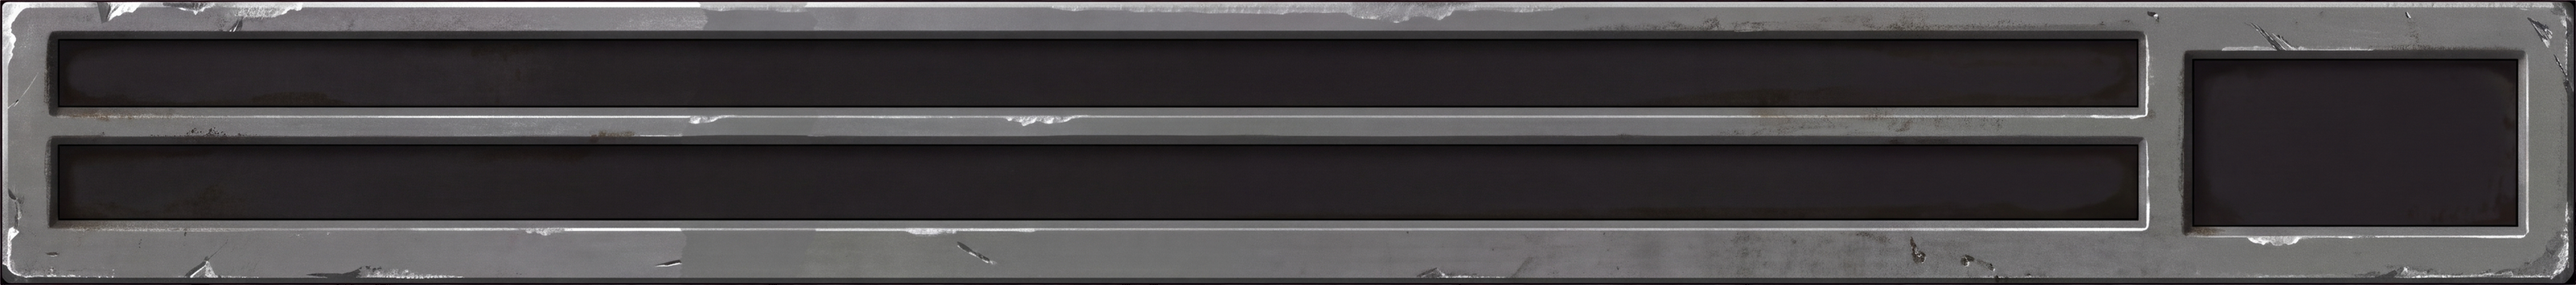
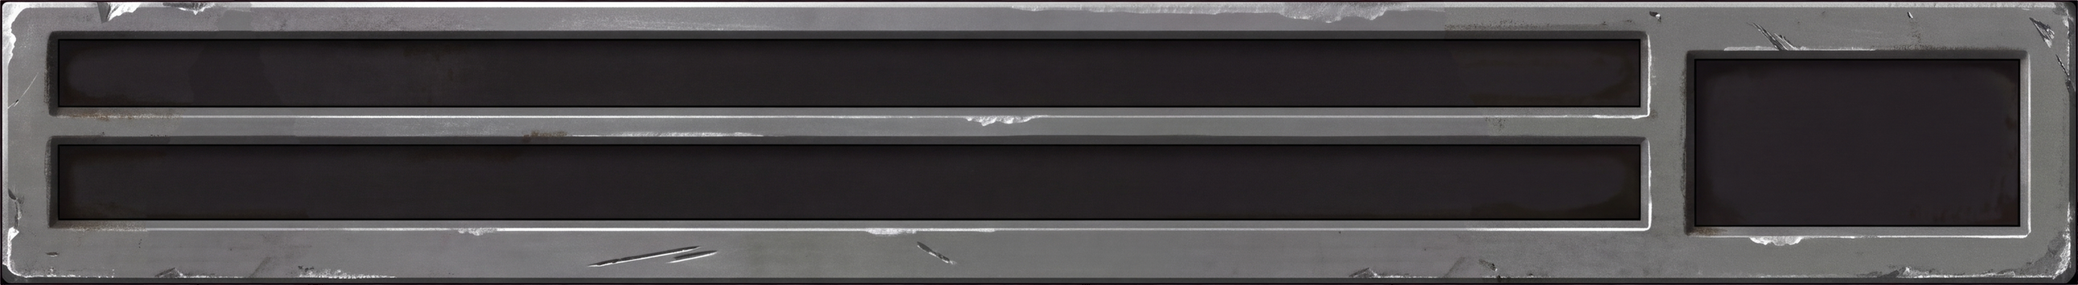
HUD art: the timeline housing is its two ends and one 195-unit period, so its repeat shows no rhythm
A grid part's fixed cells keep their painted length, so the housing (painted 420, drawn 501 at
4K HUD 150) left its band too little room: seamband had cut a 58-unit period whose identical
scratches showed every 130 px at HUD 75 and 100. seamband.py now widens a grid part's band to
the wells it crosses and shortens the part to its ends and one period, moving the wells with
the paint, as it already does for a 9-slice. The housing is 339 units with a 195-unit period:
two copies at 0.92 x at HUD 150, more at the smaller scales.

The in-game check is in hud-in-game.md: the game against the mockup fed its own dump, at HUD
150, 125 and 75, on a four-seat and a ten-seat recording.

Claude-Session: https://claude.ai/code/session_01CWvRSTvNwoKGEdcHRjR3ry

diff --git a/tools/hudart/seamband.py b/tools/hudart/seamband.py
@@ -10,9 +10,12 @@ tile.py's quilting, so it wraps continuously by construction. Its two joins to t
 seams through an overlap of `ov` pixels taken from the middle's own paint, so the ends keep their bevels:
   - a 9-slice's middle [l, W - r) gives up `ov` pixels at each side to the joins, and is replaced by the tile;
     the slice grows by `ov` on each side and the PNG becomes l + ov + L + ov + r pixels wide;
-  - a grid part keeps its length, so its wells stay where they were measured: one period of the tile is
-    joined into its x stretch band, `ov` pixels in from the band's start, and `xs` becomes that period; the
-    rest of the painting is left as painted.
+  - a grid part's band is first widened to the wells it crosses, `GRID_INSET` units in from their ends, and
+    the part becomes its two ends and one period: the PNG and the design shorten by what the band gave up,
+    `xs` becomes the period and every well edge right of the band moves left with the paint. Everything
+    outside the band keeps its painted length when drawn, so a grid part painted long with a short band
+    (the timeline housing: 420 units, drawn 501 at HUD 150) gives the repeat too little room: its few
+    copies stretch by up to half, or its period must be short enough to show as a rhythm.
 fill() is the operation both use, and a job script may call it to join separately painted pieces."""
 import json, os, sys
 import numpy as np
@@ -65,13 +68,23 @@ def nine(a, sl):
     return fill(body, l + ov, l + ov + L, t, ov), [t_, r + ov, b_, l + ov], L, ov
 
 
+GRID_INSET = 5    # units: clear of a recess's end wall and its shadow, so the joins take plate and recess paint only
+
+
 def grid(a, e):
     (p, q), = e['xs']                                               # one x stretch band, in design units
     s = a.shape[1] / e['design'][0]
-    x0, x1 = round(p * s), round(q * s); ov = max(8, (x1 - x0) // 12)
+    crossed = [w for w in e['wells'].values() if w[0] < q and w[0] + w[2] > p]
+    lo, hi = max(w[0] for w in crossed) + GRID_INSET, min(w[0] + w[2] for w in crossed) - GRID_INSET
+    x0, x1 = round(lo * s), round(hi * s); ov = max(8, (x1 - x0) // 12)
     t, _ = tile(a[:, x0 + ov:x1 - ov])
     L = t.shape[1]
-    out = fill(a, x0 + ov, x0 + ov + L, t, ov)
+    body = np.concatenate([a[:, :x0 + ov], np.zeros_like(t), a[:, x1 - ov:]], 1)
+    out = fill(body, x0 + ov, x0 + ov + L, t, ov)
+    cut = (x1 - ov - (x0 + ov + L)) / s                            # the units the band gave up
+    at = lambda x: round(x - cut, 2) if x >= (x1 - ov) / s else x
+    e['wells'] = {k: [at(x), y, round(at(x + w) - at(x), 2), h] for k, (x, y, w, h) in e['wells'].items()}
+    e['design'][0] = round(e['design'][0] - cut, 2)
     return out, [[round((x0 + ov) / s, 2), round((x0 + ov + L) / s, 2)]], L, ov
 
 

diff --git a/research/notes/hud-in-game.md b/research/notes/hud-in-game.md
@@ -126,7 +126,8 @@ The owner's decisions:
 - **One HUD unit is the viewport height / 720 × the replay HUD's scale**
   (`tagpu_hudstate_present`), whatever the game's HUD scale. The engine's frame — the side
   panel's width and the bars' height at the game's HUD scale, from `tagpu_hud_live` — gives the
-  anchors, and the 9-slice and grid-sliced parts stretch to fill what is left.
+  anchors, and the 9-slice and grid-sliced parts stretch to fill what is left, except an `xtile`
+  part's x band, which repeats (*How it is built*).
 
 ## How it is built
 
@@ -256,6 +257,19 @@ The owner's decisions:
   most `HUD_MAXQUAD` = (2·`HUD_MAXBAND` + 1)² quads (`tagpu_hudlay.h`), the bound the loader
   enforces on each part's bands. The mockup composes a grid part into one image instead; at a
   cell's edge the two can differ by a pixel's filtering, and nowhere else.
+- **An `xtile` part's x band repeats** ([The replay HUD's layout](hud-layout.md), *Parts*): each
+  copy is one more quad with the band's own texture coordinates, the count rounded from the drawn
+  band's length over the painted one exactly as `hud.js` rounds it. The copies are fitted to what
+  `HUD_MAXQUAD` leaves once every cell has its quad, so a band drawn longer than that holds fewer,
+  longer copies and no cell is dropped.
+- **Verified on 2026-10-15** (MEASURED, the reference setup: a private 3840 × 2160 Xvfb, a
+  four-seat 2v2 and a ten-seat five-team recording on Town & Country and Core Prime): the game's
+  capture against the mockup fed the game's own dump at shift 0, 0, as the share of pixels
+  differing by more than 48 levels — at HUD 150 the timeline 1.50 % and the transport 2.24 % (the
+  world above them and the clock's text edges), the stats window 0.35 %; the column differs only
+  where the world shows between its rows and where the game shows a hover the dump does not
+  carry. At 125 and 75 the timeline's copies fall at the same pixels in both; the scroll bar of
+  the ten-seat column matches, thumb included.
 - **`tools/hudart/laycheck.py`** compares this file's rectangles and baselines with the mockup's
   ([The replay HUD's layout](hud-layout.md), *Text*).
 

diff --git a/research/notes/hud-layout.md b/research/notes/hud-layout.md
@@ -191,7 +191,14 @@ middle column) is one period of a seamless tile, painted to join its fixed neigh
 along x instead of stretching: drawn n = max(1, round(drawn length / painted length)) times, each copy
 taking an equal share of the drawn band (CSS `border-image-repeat: round stretch` for a 9-slice). Along y it
 still stretches. A part drawn much wider than it was painted keeps its wear in proportion this way;
-`tools/hudart/seamband.py` makes the band and sets the flag.
+`tools/hudart/seamband.py` makes the band and sets the flag. The mockup and the game
+(`tagpu_hudlay_expand`) draw it alike.
+
+A grid part's fixed cells keep their painted length, so the room its band has to repeat in is the drawn
+length less everything outside the band. `seamband.py` therefore widens a grid part's band to the wells it
+crosses and shortens the part to its two ends and one period: the timeline housing, painted 420 units with a
+58-unit band, became 339 units with a 195-unit period, which repeats twice at 0.92 × on a 501-unit housing
+(4K, HUD 150) where the short period showed as a rhythm of identical scratches at HUD 75 and 100.
 
 ## The rules
 
